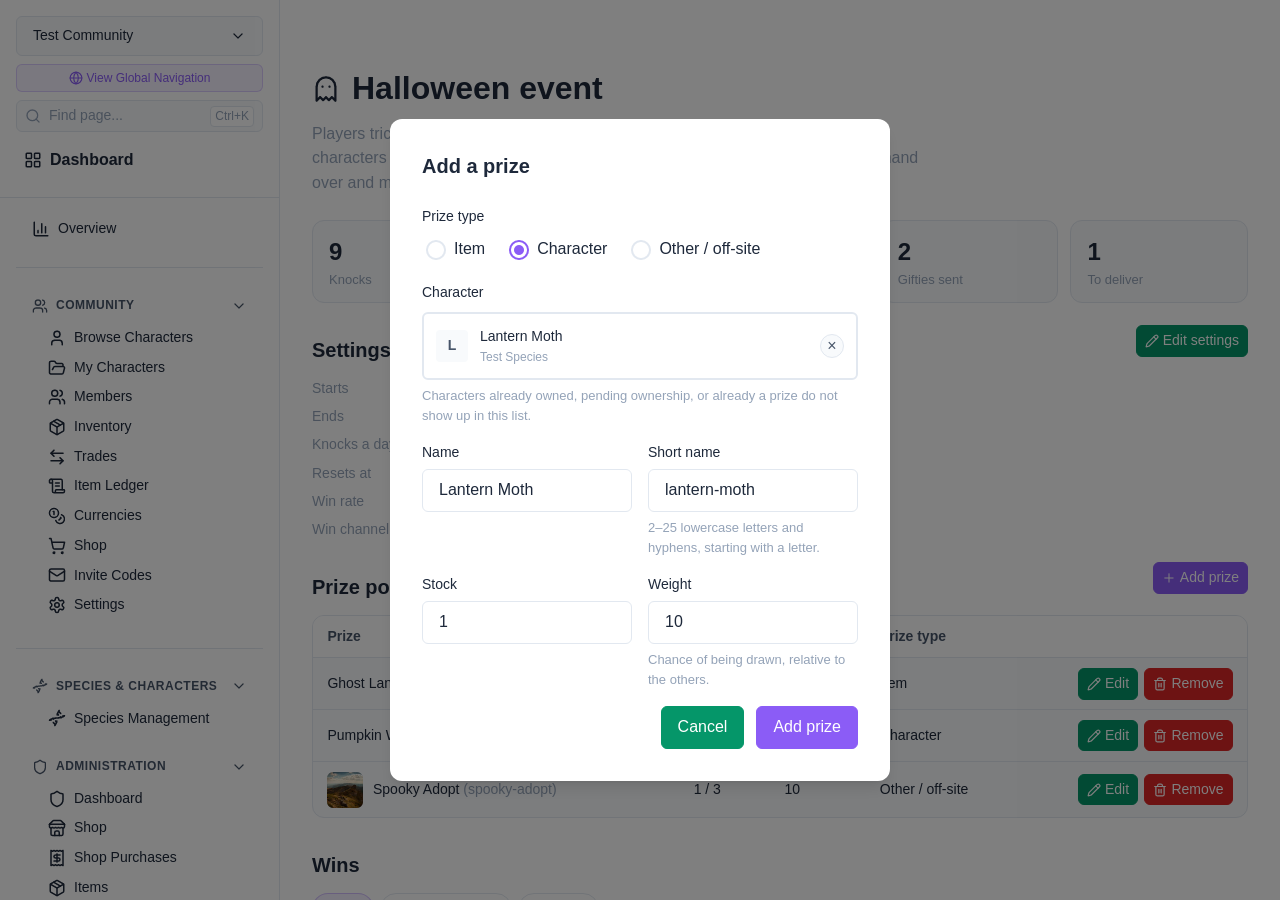
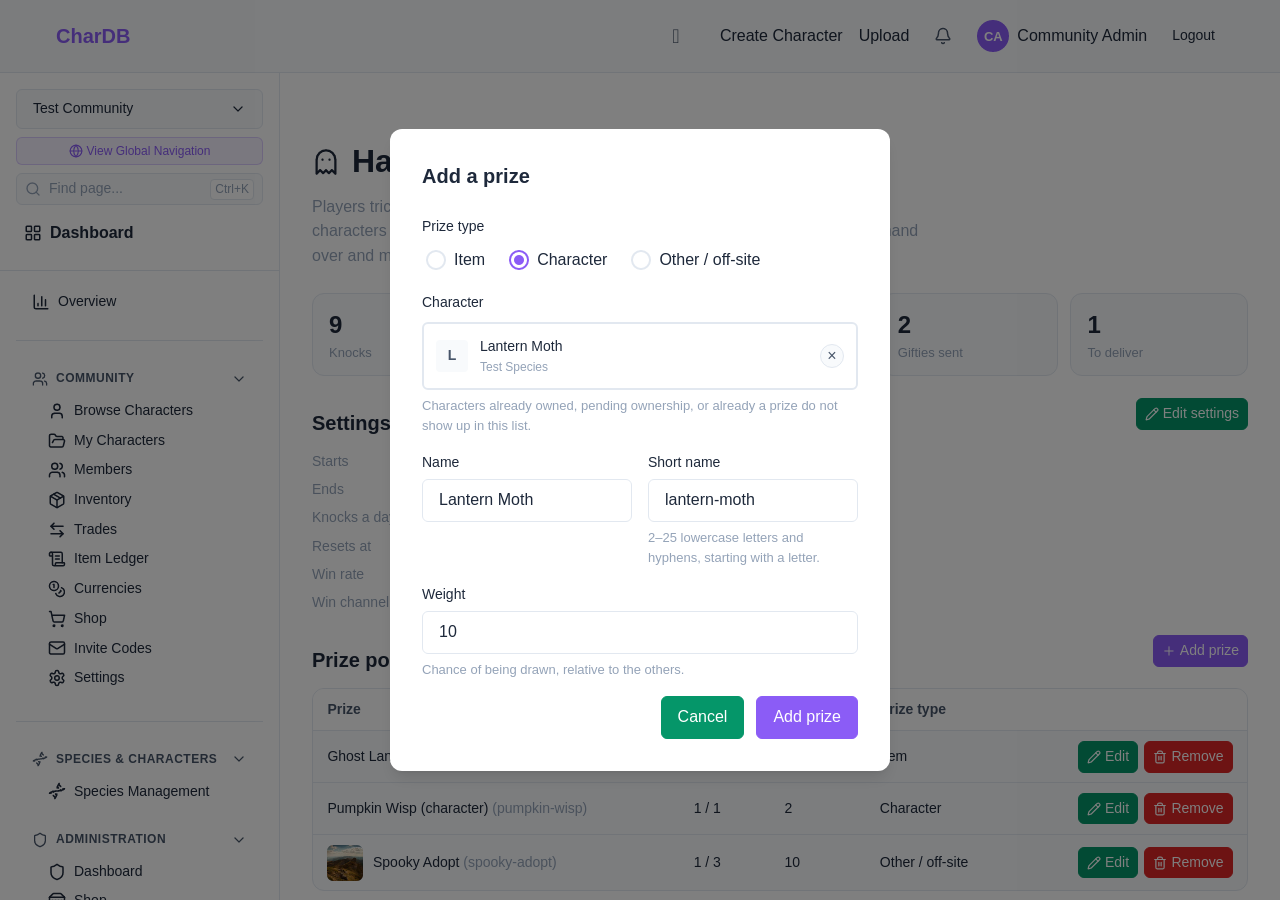
docs: show character prizes without a stock in the Halloween walkthrough

diff --git a/docs/docs/halloween-event.html b/docs/docs/halloween-event.html
@@ -504,12 +504,13 @@
             </li>
             <li>
               <strong>Stock</strong>: how many can be won. Fungible prizes such
-              as edit kits can have hundreds.
+              as edit kits can have hundreds. A character is one of a kind, so a
+              character prize has no stock to set: it can be won once.
             </li>
             <li>
               <strong>Weight</strong>: how likely this prize is to be the one
-              won, compared with the others. A prize with more left is
-              proportionally more likely.
+              won, compared with the others, from 1 to 1000. A prize with more
+              left is proportionally more likely.
             </li>
           </ul>
         </div>
@@ -535,10 +536,11 @@
         <div class="screenshot">
           <img
             src="halloween-add-character.png"
-            alt="The Add a prize form with Character selected and Lantern Moth picked; Name reads Lantern Moth and Short name reads lantern-moth"
+            alt="The Add a prize form with Character selected and Lantern Moth picked; Name reads Lantern Moth, Short name reads lantern-moth, and there is a Weight field but no Stock field"
           />
           <div class="screenshot-caption">
-            A character picked: its names are filled in
+            A character picked: its names are filled in, and there is no stock
+            to set
           </div>
         </div>
       </div>
@@ -554,7 +556,13 @@
             <li>
               <strong>Edit</strong> changes a prize's name, weight, picture link
               (for an Other / off-site prize) and how many are left. The total
-              moves with it, so the number already won stays right.
+              moves with it, so the number already won stays right. A new stock
+              is saved only if you changed it, and replaces whatever is left at
+              that moment.
+            </li>
+            <li>
+              A character prize's stock can't be edited. Once its character is
+              won, it stays out of the pool.
             </li>
             <li>
               <strong>Remove</strong> takes a prize out of the pool for good,
